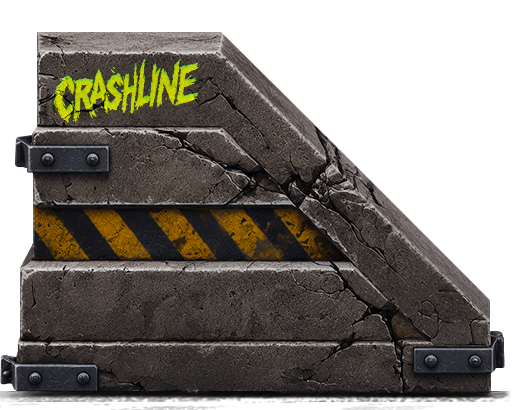
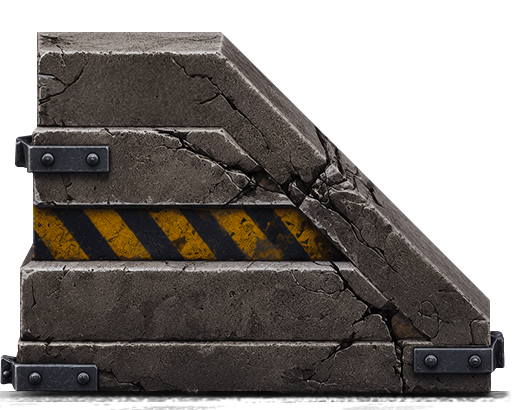
ds

Changed region(s): [[0.0934, 0.1463, 0.4047, 0.322]]

diff --git a/src/scenes/game-scene.js b/src/scenes/game-scene.js
@@ -67,6 +67,7 @@
       this.fenceOverlayAlpha = 0.96;
       this.hitWallX = 570;
       this.hitWallY = 888;
+      this.hitWallVisualOffsetX = 0;
       this.hitWallScale = 0.34;
       this.hitWallAlpha = 1;
       this.hitWallImage = null;
@@ -498,6 +499,7 @@
       this.fenceOverlayAlpha = gp.fenceOverlayAlpha;
       this.hitWallX = gp.hitWallX;
       this.hitWallY = gp.hitWallY;
+      this.hitWallVisualOffsetX = Number(gp.hitWallVisualOffsetX) || 0;
       this.hitWallScale = gp.hitWallScale;
       this.hitWallAlpha = gp.hitWallAlpha;
     }
@@ -505,7 +507,7 @@
     updateHitWallLayout() {
       if (!this.barrier) return;
       this.barrier.setPosition(this.hitWallX, this.hitWallY).setAlpha(this.hitWallAlpha);
-      if (this.hitWallImage) this.hitWallImage.setScale(this.hitWallScale);
+      if (this.hitWallImage) this.hitWallImage.setPosition(this.hitWallVisualOffsetX, 0).setScale(this.hitWallScale);
       if (this.hitWallPreview && this.state === "ready") this.barrier.setVisible(true);
     }
 
@@ -636,7 +638,8 @@
       });
 
       if (this.car) {
-        if (this.car.visualRoot) this.car.visualRoot.setPosition(cfg.root.x, cfg.root.y).setScale(cfg.root.scale);
+        const carVisualScale = Number(CT.Config.gameplay.carVisualScale) || 1;
+        if (this.car.visualRoot) this.car.visualRoot.setPosition(cfg.root.x, cfg.root.y).setScale(cfg.root.scale * carVisualScale);
         if (this.car.bodyRig) {
           this.car.bodyBaseY = cfg.body.y;
           this.car.bodyRig.setPosition(cfg.body.x, cfg.body.y).setAngle(0);
@@ -1094,7 +1097,7 @@
       }
       this.clearFlightRagdoll();
 
-      const scale = 0.464;
+      const scale = 0.5568;
       const skin = 0xf2b34c;
       const suit = 0xf4a33c;
       const dark = 0x27313b;
@@ -1860,7 +1863,8 @@
       const cfg = this.carControlConfig;
       const root = cfg.root || CT.Config.gameplay.carArt.root;
       const wheelShadow = cfg.wheelShadow || CT.Config.gameplay.carArt.wheelShadow;
-      const rootScale = Math.max(0.01, Number(root.scale) || 1);
+      const carVisualScale = Number(CT.Config.gameplay.carVisualScale) || 1;
+      const rootScale = Math.max(0.01, Number(root.scale) || 1) * carVisualScale;
       const baseCarY = CT.Config.gameplay.roadY - 54;
       const alpha = Phaser.Math.Clamp(Number(wheelShadow.alpha), 0, 1) * Phaser.Math.Clamp(this.car.alpha, 0, 1);
       this.car.carGroundShadow
@@ -2058,7 +2062,6 @@
 
     playCrashImpact(payout) {
       this.cameras.main.shake(420, 0.018);
-      this.spawnSmoke(this.car.x + 96, this.car.y - 10, 20, 0xffcf30);
       this.tweens.killTweensOf(this.car);
       this.tweens.killTweensOf(this.dummy);
       this.setWheelPlayback(false);

diff --git a/index.html b/index.html
@@ -20,11 +20,11 @@
   <button class="page-btn fullscreen-btn" id="fullscreenBtn" type="button" aria-label="Fullscreen">FULL</button>
 
   <script src="https://cdnjs.cloudflare.com/ajax/libs/phaser/3.88.2/phaser.min.js"></script>
-  <script src="./src/config.js?v=2026-07-01-v0.1.84-smooth-ragdoll-settle"></script>
-  <script src="./src/core/wallet.js?v=2026-07-01-v0.1.84-smooth-ragdoll-settle"></script>
-  <script src="./src/ui/hud.js?v=2026-07-01-v0.1.84-smooth-ragdoll-settle"></script>
-  <script src="./src/scenes/boot-scene.js?v=2026-07-01-v0.1.84-smooth-ragdoll-settle"></script>
-  <script src="./src/scenes/game-scene.js?v=2026-07-01-v0.1.84-smooth-ragdoll-settle"></script>
-  <script src="./src/main.js?v=2026-07-01-v0.1.84-smooth-ragdoll-settle"></script>
+  <script src="./src/config.js?v=2026-07-01-v0.1.89-no-impact-yellow-particles"></script>
+  <script src="./src/core/wallet.js?v=2026-07-01-v0.1.89-no-impact-yellow-particles"></script>
+  <script src="./src/ui/hud.js?v=2026-07-01-v0.1.89-no-impact-yellow-particles"></script>
+  <script src="./src/scenes/boot-scene.js?v=2026-07-01-v0.1.89-no-impact-yellow-particles"></script>
+  <script src="./src/scenes/game-scene.js?v=2026-07-01-v0.1.89-no-impact-yellow-particles"></script>
+  <script src="./src/main.js?v=2026-07-01-v0.1.89-no-impact-yellow-particles"></script>
 </body>
 </html>

diff --git a/src/config.js b/src/config.js
@@ -3,8 +3,8 @@
   const assetRoot = new URL("./assets/", window.location.href).href;
 
   CT.Config = {
-    build: "2026-07-01-v0.1.84-smooth-ragdoll-settle",
-    gameVersion: "v0.1.84",
+    build: "2026-07-01-v0.1.89-no-impact-yellow-particles",
+    gameVersion: "v0.1.89",
     phaserVersion: "3.88.2",
     width: 720,
     height: 1280,
@@ -56,7 +56,8 @@
       barrierX: 590,
       hitWallX: 570,
       hitWallY: 902,
-      hitWallScale: 0.48,
+      hitWallVisualOffsetX: 70,
+      hitWallScale: 0.528,
       hitWallAlpha: 1,
       carArt: {
         root: { x: -28, y: 14, scale: 0.94 },
@@ -74,6 +75,7 @@
           purple: "#b15cff"
         }
       },
+      carVisualScale: 1.2,
       worldWidth: 24000,
       minBounces: 0,
       maxBounces: 10,